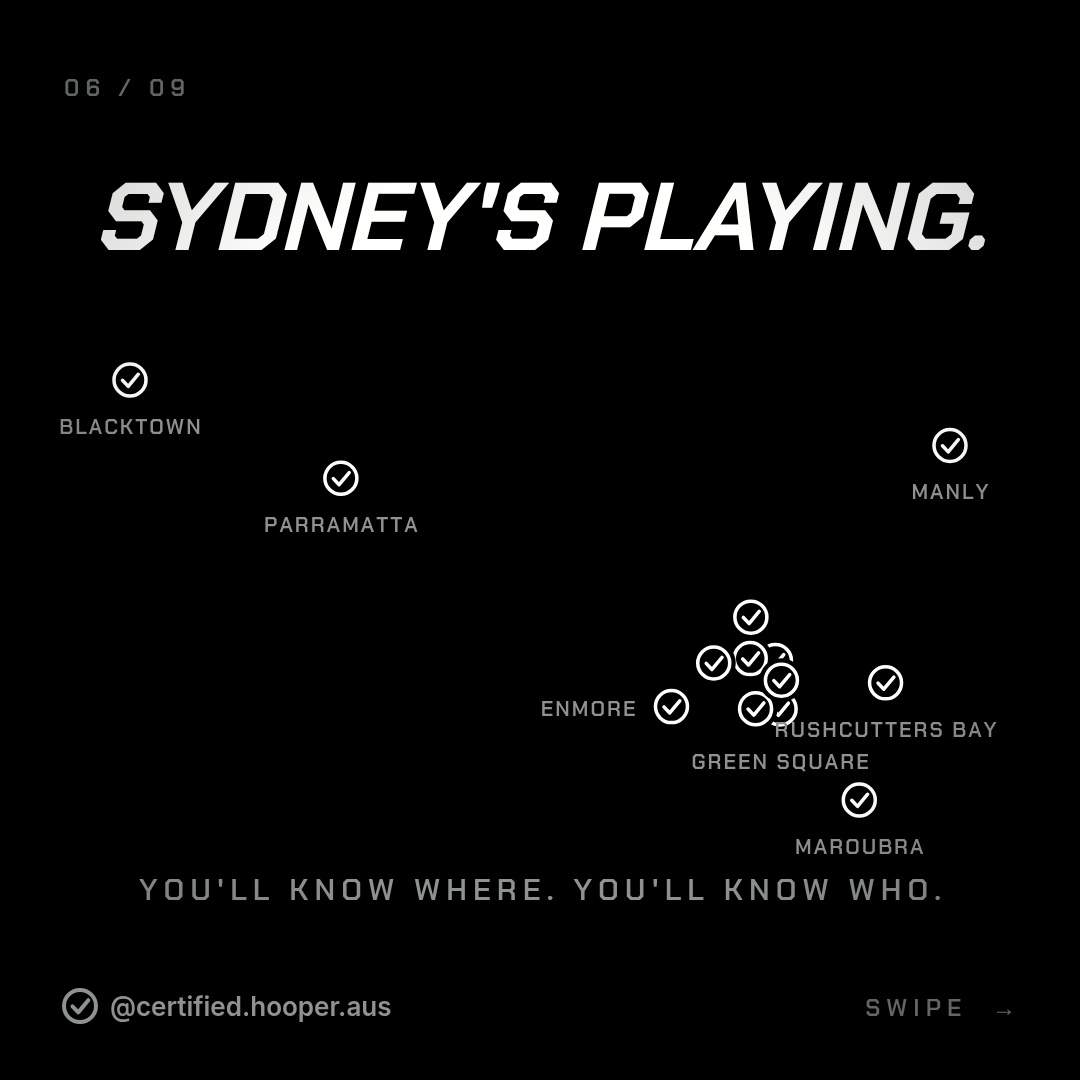
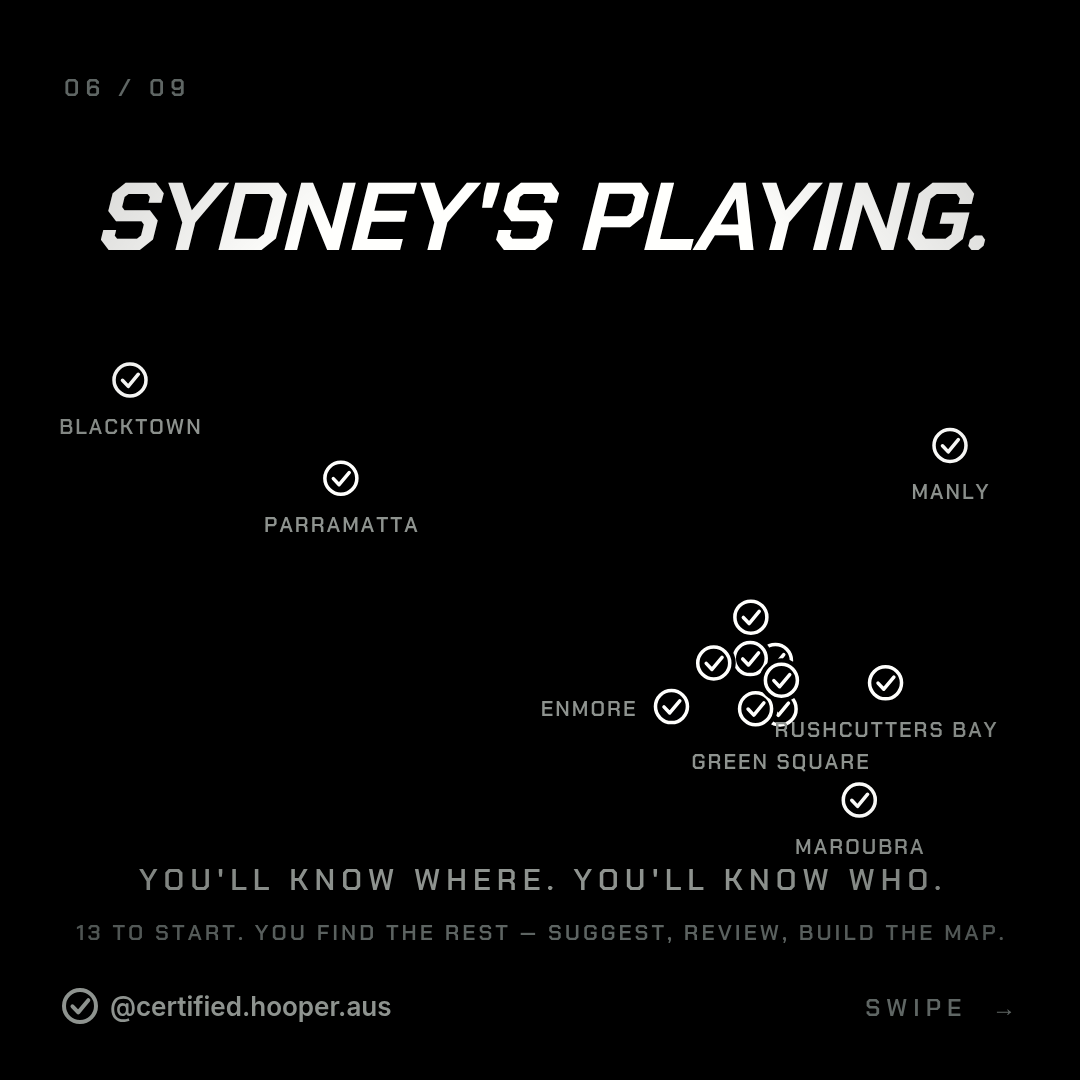
Community builds the map: carousel slide 6 + landing copy, no more 'kings'
Claude-Session: https://claude.ai/code/session_013kHg6ZrrgY4qpBCpm4NntE

diff --git a/certifiedhooper.html b/certifiedhooper.html
@@ -213,10 +213,10 @@ footer b{color:var(--dim);letter-spacing:.1em;font-family:'CHDisp',sans-serif;fo
       <h2 class="sh">Not a group chat.<br>A network.</h2>
     </div>
     <div class="grid">
-      <div class="f rv"><div class="ic">🗺</div><b>Every court, scouted</b><p>Rings, lights, water, toilets, parking, the busiest times, what to bring. You know exactly what you're pulling up to — before you leave the house.</p></div>
+      <div class="f rv"><div class="ic">🗺</div><b>Every court, scouted</b><p>Rings, lights, water, toilets, parking, the busiest times, what to bring. You know exactly what you're pulling up to — before you leave the house. 13 courts to start, and you find the rest: suggest a court, review it, build the map with us.</p></div>
       <div class="f rv"><div class="ic">⚡</div><b>See who's on, right now</b><p>Live, GPS-checked check-ins. Not guesses. Not "should be busy around 6". Real people, real headcounts, this minute.</p></div>
       <div class="f rv"><div class="ic">🏀</div><b>Call a run in 20 seconds</b><p>Court, time, format. It hits the board and the whole city can tap in. Chat's built in, so the run talks before the run.</p></div>
-      <div class="f rv"><div class="ic">👑</div><b>Every court has a king</b><p>Show up, check in, take the throne. Court kings, a city leaderboard, and a card that tracks every run you've ever pulled up to.</p></div>
+      <div class="f rv"><div class="ic">✓</div><b>Every court has its regulars</b><p>Show up, check in, become one. Certified regulars at every court, a city-wide board, and a card that tracks every run you've ever pulled up to.</p></div>
       <div class="f rv"><div class="ic">🔧</div><b>We fix our own courts</b><p>Bent rim? Put it on the board. Someone with a spare says "I'll fix it" — and posts the photo when it's done. We're not waiting on the council.</p></div>
     </div>
     <div class="stats rv">
